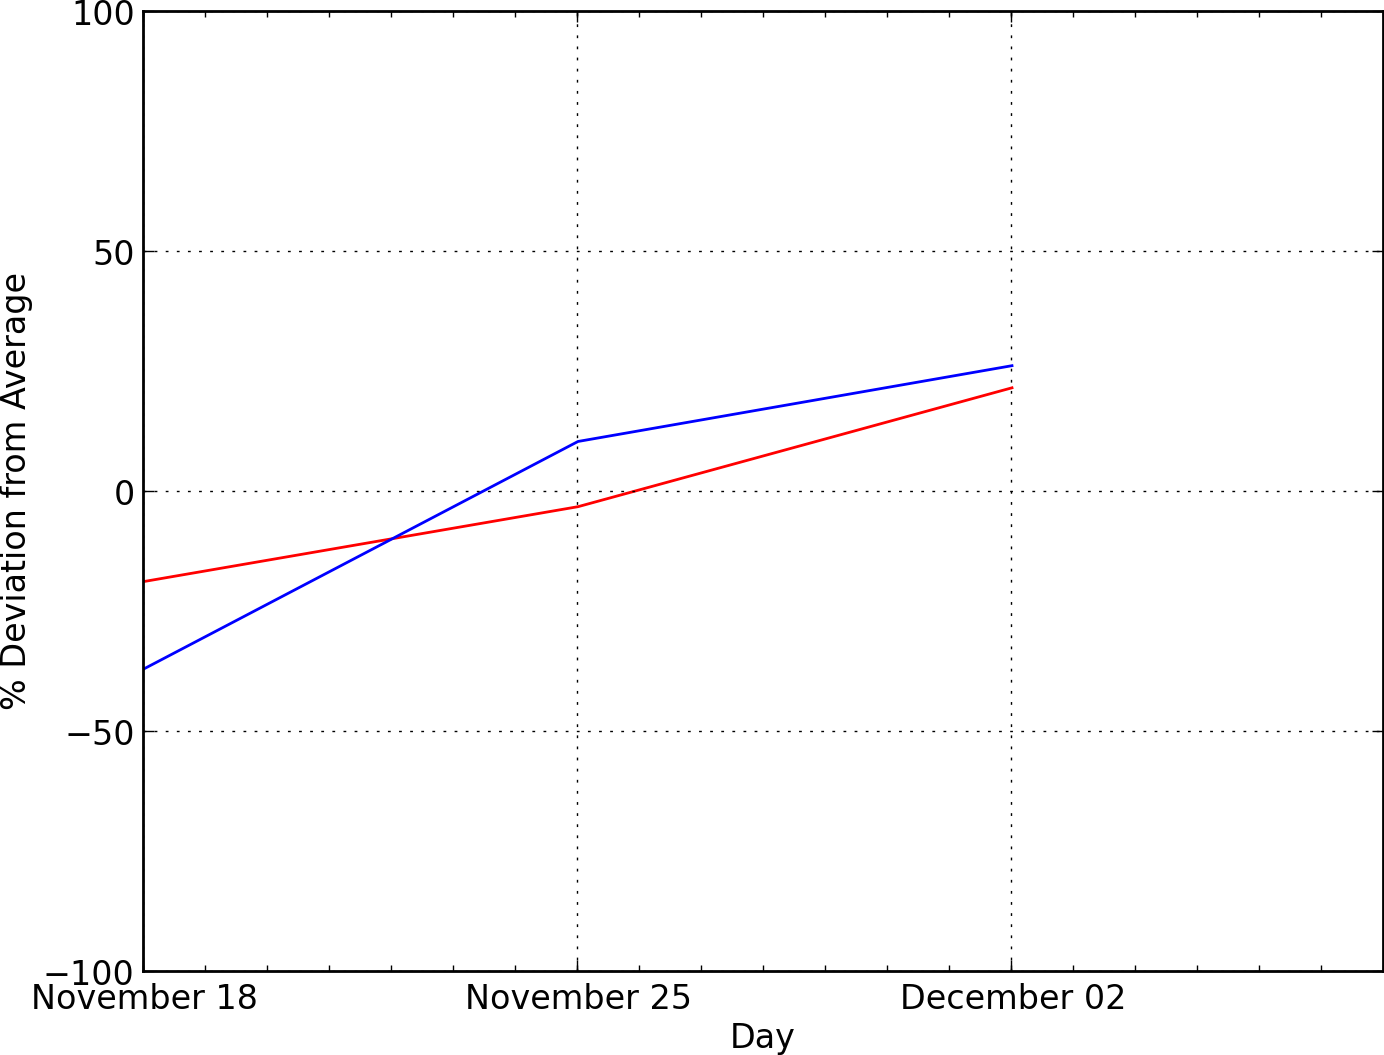
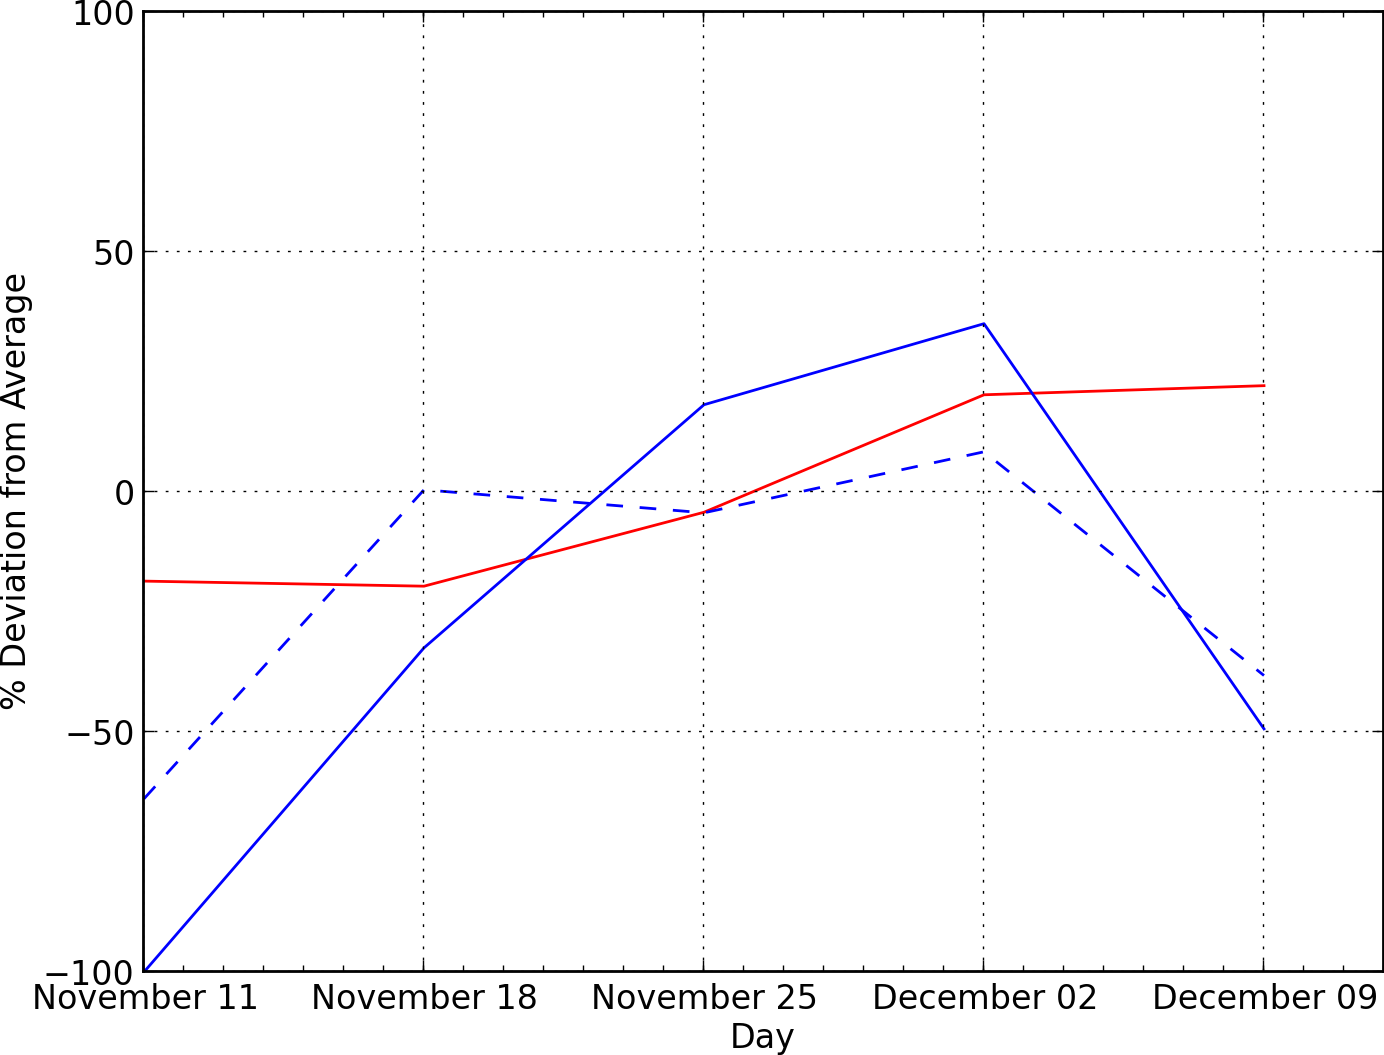
meetings.py now uses rtree + a couple of test cases for meetings output consistency

diff --git a/features/meetings.py b/features/meetings.py
@@ -10,6 +10,7 @@ import cPickle as pickle
 from datetime import datetime, timedelta
 import logging
 import pprint
+from rtree import index
 import sys
 import math
 
@@ -39,6 +40,14 @@ def new_meeting(a, b, meetings):
         return True
     return not ((b in meetings[a]) and (a in meetings[b]))
 
+def getTweetsNearGPSbyTimeWindow(date, point):
+    try:
+        dX, dY = degreesX, degreesY
+        intersect = slice_indices[date].intersection((point[1] - dX, point[0] - dY, point[1] + dX, point[0] + dY), objects=True)
+        return [n.object for n in intersect]
+    except KeyError:
+        return []
+
 """ start logging module """
 logging.basicConfig(filename = 'meetings.log', level = logging.DEBUG, filemode = 'w', format='%(message)s')
 
@@ -51,11 +60,14 @@ dt = [int(d) for d in sys.argv[5].split('-')]
 start_date = datetime(dt[0], dt[1], dt[2])
 dt = [int(d) for d in sys.argv[6].split('-')]
 end_date = datetime(dt[0], dt[1], dt[2])
+degreesY = (space_slack * 1000) * 0.00000900507679  # this many degrees make up 1 meter at NYC latitude
+degreesX = (space_slack * 1000) * 0.00001183569359
 
-slice_table = {}
 time_slices = set()
 meetings = {}
 users = set()
+slice_indices = {}
+slice_table = {}
 
 """ initialize couchdb """
 couch = couchdb.Server('http://dev.fount.in:5984')
@@ -68,61 +80,56 @@ logging.debug("Querying \"Tweet/meetings\" and slicing...")
 print "Tweets read from view: %d" % len(results)
 logging.debug("Got %s rows." % len(results))
 for row in results:
-    key, value, doc = row.key, row.value, row.doc
+    key, value, doc = row.key, long(row.value), row.doc
     date = datetime(key[1], key[2], key[3])
-    stamp = couch_key_to_slice_key(key)
-    time_slices.add(stamp)
+    #stamp = couch_key_to_slice_key(key)
+    #time_slices.add(stamp)
     if doc['created_at'] == None or doc['geo'] == None or date < start_date or date > end_date:
         continue
-    if not stamp in slice_table:
-        slice_table[stamp] = []
-        meetings[stamp] = {}
-    if not value in users:
+    if not date in time_slices:
+        #slice_table[stamp] = []
+        time_slices.add(date)
+        slice_indices[date] = index.Index()
+        slice_table[date] = {}
+        meetings[date] = {}
+    if value not in users:
         users |= set([value])
-    slice_table[stamp].append((value, doc['created_at'], doc['geo']))
+    #slice_table[stamp].append((value, doc['created_at'], doc['geo']))
+    lat, lng = doc['geo']['coordinates']
+    slice_indices[date].insert(value, (lng, lat, lng, lat), obj = (value, doc['created_at'], doc['geo']))
+    slice_table[date][value] = (value, doc['created_at'], doc['geo'])
     logging.debug("\t[%s] <- (%s, %s, %s)" % (date, value, doc['created_at'], doc['geo']))
 
-
-if (end_date-start_date).days+1 > len(time_slices):
+if (end_date - start_date).days + 1 > len(time_slices):
     print 'Not all requested days found in db.'
     exit(-1)
 
 print "Users: %s" % len(users)
 """ sort tweets across all slices, infer meetings """
-logging.debug("\nSorting all slices and finding meetings...")
-for (stamp, entries) in slice_table.items():
-    # if we sort the list by time of tweet, we can reduce time significantly
-    # ex: if timediff between (a = (..., noon, ...), b = (..., 3pm, ...)) is too great,
-    # no need to check further than b for a meetings
-    entries.sort(key = lambda entry: key_created_at(entry[1]))
-    samples = [entry[1] for entry in entries[:3]]
-    logging.debug("\tSorted entries by time.")
-    if len(samples) >= 3:
-        logging.debug("sample: %s, %s, %s, ...)" % (samples[0], samples[1], samples[2]))
-    for i in range(len(entries)):
-        for j in range(i, len(entries)):
-            a, b = int(entries[i][0]), int(entries[j][0])
-            if a == b:
+logging.debug("\nFinding meetings across all time slices...")
+for (date, slice_users) in slice_table.items():
+    for (user, utup) in slice_users.items():
+        uId, uCreated, uGeo = utup
+        nearby_tweets = getTweetsNearGPSbyTimeWindow(date, uGeo['coordinates'])
+        logging.debug("\t%s @ %s: %d nearby tweets. %s"% (user, date, len(nearby_tweets), uGeo['coordinates']))
+        for nearby_tweet in nearby_tweets:
+            nId, nCreated, nGeo = nearby_tweet
+            if uId == nId:
                 continue
-            time_diff = time_difference(entries[i][1], entries[j][1])
-            space_diff = calcDistanceOptimized(entries[i][2], entries[j][2])
-            # output meeting and log if meeting hasn't already been added
-            if time_diff <= time_slack and space_diff <= space_slack:
-                if new_meeting(a, b, meetings[stamp]):
-                    logging.debug("\t(%s, %s): [time: %.3f hr, space: %.3f km] -> YES!" % (a, b, time_diff, space_diff))
-                    if not a in meetings[stamp]:
-                        meetings[stamp][a] = set()
-                    if not b in meetings[stamp]:
-                        meetings[stamp][b] = set()
-                    meetings[stamp][a] |= set([b])
-                    meetings[stamp][b] |= set([a])
+            time_diff = time_difference(uCreated, nCreated)
+            if time_diff <= time_slack:
+                if new_meeting(uId, nId, meetings[date]):
+                    logging.debug("\t(%s, %s): [time: %.3f hr] -> YES!" % (uId, nId, time_diff))
+                    if not uId in meetings[date]:
+                        meetings[date][uId] = set()
+                    if not nId in meetings[date]:
+                        meetings[date][nId] = set()
+                    meetings[date][uId] |= set([nId])
+                    meetings[date][nId] |= set([uId])
                 else:
-                    logging.debug("\t(%s, %s): [time: %.3f hr, space: %.3f km] -> SKIP!" % (a, b, time_diff, space_diff))
+                    logging.debug("\t(%s, %s): [time: %.3f hr] -> SKIP!" % (uId, nId, time_diff))
             else:
-                logging.debug("\t(%s, %s): [time: %.3f hr, space: %.3f km] -> NO!" % (a, b, time_diff, space_diff))
-            # break if time slack exceeded
-            if time_diff > time_slack:
-                break
+                logging.debug("\t(%s, %s): [time: %.3f hr] -> NO!" % (uId, nId, time_diff))
 
 """ dump results to pickle """
 logging.debug("\nDumping to file %s using cPickle." % file_name)

diff --git a/plot/plot-deviation.py b/plot/plot-deviation.py
@@ -51,6 +51,7 @@ if start >= finish:
 region_map = {}
 gft_keys,   gft_values,   gft_sum,   gft_count   = {}, {}, 0, 0
 couch_keys, couch_values, couch_sum, couch_count = {}, {}, 0, 0
+total_keys, total_values, total_sum, total_count = {}, {}, 0, 0
 
 """ init couchdb stuff """
 couch = couchdb.Server('http://dev.fount.in:5984')
@@ -67,6 +68,8 @@ with open('airport-to-city.txt', 'r') as rmap_file:
         gft_values[code] = []
         couch_keys[code] = [offset_to_key(start, i * 7) for i in range((finish - start).days / 7 + 1)]
         couch_values[code] = [0.0 for i in range((finish - start).days / 7 + 1)]
+        total_keys[code] = [offset_to_key(start, i * 7) for i in range((finish - start).days / 7 + 1)]
+        total_values[code] = [0.0 for i in range((finish - start).days / 7 + 1)]
         line = rmap_file.readline()
 
 """ retrieve stats from google flu trends csv """
@@ -113,21 +116,50 @@ for row in results:
 # also account for collection start here
 couch_count = (finish - max(start, collect_start)).days + 1
 
+""" retrieve # tweets stats from couch db """
+start_key = [airport, start.year, start.month, start.day]
+end_key = [airport, finish.year, finish.month, finish.day]
+print "startkey: %s" % start_key
+print "endkey: %s" % end_key
+results = db_airports.view(
+    "Tweet/by_airport",
+    reduce = True,
+    group = True,
+    startkey = start_key,
+    endkey = end_key)
+for row in results:
+    print "%s: %s" % (row.key, row.value)
+    result_day = key_to_datetime(row.key)
+    index = (result_day - start).days / 7
+    # weight sum properly if this result was between collection start and the next sunday
+    if result_day >= collect_start and result_day < collect_start + timedelta(days = 1):
+        print "next_week: %s" % (collect_start + timedelta(days = 1))
+        total_values[airport][index] += float(row.value) / 1
+    else:
+        total_values[airport][index] += float(row.value) / 7
+    total_sum += row.value
+# also account for collection start here
+total_count = (finish - max(start, collect_start)).days + 1
+
 """ create lists for percent deviations """
-gft_avg, couch_avg = float(gft_sum) / gft_count, float(couch_sum) / couch_count
+gft_avg, couch_avg, total_avg = float(gft_sum) / gft_count, float(couch_sum) / couch_count, float(total_sum) / total_count
 print "Flu trends... sum: %s, count: %s, average: %s" % (gft_sum, gft_count, gft_avg)
-print "Couch... sum: %s, count: %s, average: %s" % (couch_sum, couch_count, couch_avg)
-print "Couch vals: %s" % couch_values[airport]
+print "Airports (sick)... sum: %s, count: %s, average: %s" % (couch_sum, couch_count, couch_avg)
+print "Airports (total)... sum: %s, count: %s, average: %s" % (total_sum, total_count, total_avg)
+#print "Couch vals: %s" % couch_values[airport]
 gft_pct = [dev_percent(v, gft_avg) for v in gft_values[airport]]
 couch_pct = [dev_percent(v, couch_avg) for v in couch_values[airport]]
+total_pct = [dev_percent(v, total_avg) for v in total_values[airport]]
 
 """ create histogram buckets for each dataset, then pdf """
 figure = plt.figure()
 axes = figure.add_subplot(111)
 gft_times = [key_to_datetime(key) for key in gft_keys[airport]]
 couch_times = [key_to_datetime(key) for key in couch_keys[airport]]
+total_times = [key_to_datetime(key) for key in total_keys[airport]]
 gft_line = axes.plot_date(gft_times, gft_pct, 'r-', linewidth = 1)
 couch_line = axes.plot_date(couch_times, couch_pct, 'b-', linewidth = 1)
+total_line = axes.plot_date(couch_times, total_pct, 'b--', linewidth = 1)
 
 """ plot styling """
 axes.xaxis.set_major_locator(mdates.WeekdayLocator(byweekday = 6))

diff --git a/features/print_meetings.py b/features/print_meetings.py
@@ -1,18 +1,24 @@
 """
 	Takes a meetings data structure and prints it out.
 
-    print_meetings.py <pickle-file-path>
+    print_meetings.py <pickle-file-path> [pretty]
 
     example:
         python print_meetings.py meetings_toy.pickle
 """
 
 import cPickle as pickle
+import pprint
 import sys
 
 meetings = pickle.load(open(sys.argv[1], 'rb'))
+print_pretty = sys.argv[2] and sys.argv[2] == "pretty"
 
-for day in sorted(meetings):
-	print '%s:' % day
-	for (p1, p2s) in sorted(meetings[day].items()):
-		print '\t%s <-> %s...' % (p1, str(p2s)[0:80])
+if not print_pretty:
+    for day in sorted(meetings):
+    	print '%s:' % day
+    	for (p1, p2s) in sorted(meetings[day].items()):
+    		print '\t%s <-> %s...' % (p1, str(p2s)[0:80])
+else:
+    pp = pprint.PrettyPrinter(indent = 4, stream = sys.stdout)
+    pp.pprint(meetings)
